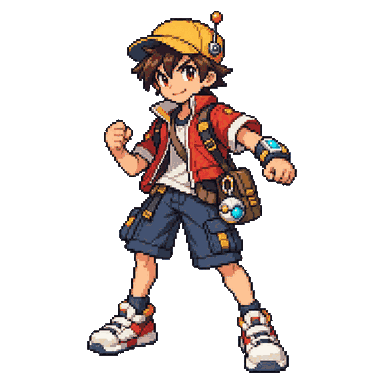
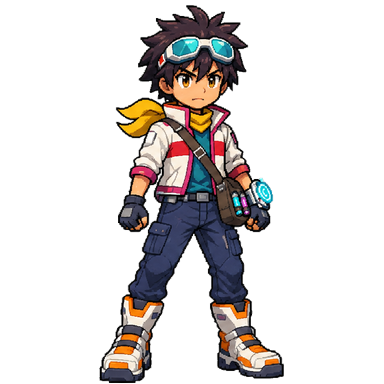
New Rook (player) and Sola art from the owner's character sheets: 4-direction sprites with walk frames, full-body sprite and portrait; tools/import_character_sheet.py for future sheets

Changed region(s): [[0.2188, 0.0, 0.7812, 1.0]]

diff --git a/src/sections.js b/src/sections.js
@@ -119,7 +119,7 @@ function drawSec(){const s=SWORLD[G.sec.id],p=SM?SM.t/SM.n:0,jp=SJ?SJ.t/SEC_JUMP
  txt('◆'+G.shards,128,134,'#fff')}
 // 16x24 figure standing on its tile (feet on the tile's bottom edge)
 function secDrawChar(art,f,x,y,step,me){ctx.fillStyle='rgba(20,10,20,0.35)';ctx.beginPath();ctx.ellipse(x+8,y+15,6,2,0,0,6.283);ctx.fill();
- const k=art+'_'+f,b=step?1:0;if(!dchar(k,Math.round(x-4),Math.round(y-9-b),24,24)&&!dchar(art,Math.round(x-4),Math.round(y-9-b),24,24))kid(Math.round(x+2),Math.round(y-2),f==='left',f==='up',step)}
+ const k=art+'_'+f,b=step?1:0,X=Math.round(x-4),Y=Math.round(y-9-b);if(!(me&&step&&dchar(k+'_w'+(1+(stepc&1)),X,Y,24,24))&&!dchar(k,X,Y,24,24)&&!dchar(art,X,Y,24,24))kid(Math.round(x+2),Math.round(y-2),f==='left',f==='up',step)}
 function drawSecDebug(s,cx,cy){ctx.save();for(let y=0;y<s.tiles[1];y++)for(let x=0;x<s.tiles[0];x++){const c=s.rows[y][x],X=x*16-cx,Y=y*16-cy;if(X<-16||Y<-16||X>160||Y>144)continue;
   if(c==='#'){ctx.fillStyle='rgba(255,0,0,0.33)';ctx.fillRect(X,Y,16,16)}else if(c===','){ctx.fillStyle='rgba(0,255,0,0.25)';ctx.fillRect(X,Y,16,16)}
   ctx.strokeStyle='rgba(255,0,255,0.35)';ctx.lineWidth=0.5;ctx.strokeRect(X+0.25,Y+0.25,15.5,15.5)}

diff --git a/tools/import_character_sheet.py b/tools/import_character_sheet.py
@@ -1,0 +1,77 @@
+"""Import a character sheet (ChatGPT layout: big bust top-left, full body top-middle, a 4x4 walk grid top-right with rows
+down / up / left / left-alt, battle poses and face portraits below) on a white background.
+
+Writes, for a character key:
+  art/characters/<key>_{down,up,left,right}.png        64x64 standing frames (right = mirrored left)
+  art/characters/<key>_{down,up,left,right}_w1/_w2.png 64x64 walk frames (used for the player; NPCs use the standing frame)
+  art/characters/<key>.png or <key>_big.png             full-body sprite (128x128 for NPCs, 160x160 for the player)
+  art/portraits/<key>.png or <key>_big.png              384x384 full-body portrait
+
+Usage: python tools/import_character_sheet.py <sheet.png> <key> [--player] [--holes]
+"""
+import sys
+import numpy as np
+from PIL import Image, ImageOps
+from scipy import ndimage
+
+COLS = [(952, 1088), (1093, 1228), (1233, 1368), (1368, 1505)]
+ROWS = [(22, 203), (203, 383), (384, 575), (575, 758)]
+FULL = (560, 10, 925, 732)
+
+
+HOLES = False
+
+
+def cut(src, box):
+    """Crop, make the outside white transparent, and keep only the biggest figure (drops bits of neighbours)."""
+    a = np.asarray(src.crop(box)).astype(int)
+    white = (a.min(axis=2) > 226) & ((a.max(axis=2) - a.min(axis=2)) < 22)
+    lab, _ = ndimage.label(white)
+    edge = set(lab[0, :]) | set(lab[-1, :]) | set(lab[:, 0]) | set(lab[:, -1])
+    edge.discard(0)
+    fg = ~np.isin(lab, list(edge))
+    if HOLES:   # pure-white gaps enclosed by hair strands (don't use on characters with white clothing)
+        pure = (a.min(axis=2) > 244) & ((a.max(axis=2) - a.min(axis=2)) < 12)
+        pl, pn = ndimage.label(pure)
+        if pn:
+            ps = ndimage.sum(pure, pl, range(1, pn + 1))
+            fg &= ~np.isin(pl, [i + 1 for i, v in enumerate(ps) if v >= 12])
+    fl, fn = ndimage.label(fg)
+    if fn:
+        sizes = ndimage.sum(fg, fl, range(1, fn + 1))
+        big = max(sizes)
+        fg = np.isin(fl, [i + 1 for i, s in enumerate(sizes) if s > big * 0.15])   # the figure (plus any large detached parts)
+    im = Image.fromarray(np.dstack([a.astype('uint8'), np.where(fg, 255, 0).astype('uint8')]), 'RGBA')
+    return im.crop(im.getbbox())
+
+
+def fit(im, size, h):
+    s = h / im.height
+    im = im.resize((max(1, round(im.width * s)), h), Image.LANCZOS)
+    c = Image.new('RGBA', (size, size), (0, 0, 0, 0))
+    c.paste(im, ((size - im.width) // 2, size - im.height - 1), im)
+    return c
+
+
+def main(path, key, player):
+    src = Image.open(path).convert('RGB')
+    C = {(r, c): cut(src, (x0, y0, x1, y1)) for r, (y0, y1) in enumerate(ROWS) for c, (x0, x1) in enumerate(COLS)}
+    frames = {'down': [C[(0, 0)], C[(0, 1)], C[(0, 3)]], 'up': [C[(1, 0)], C[(1, 1)], C[(1, 3)]], 'left': [C[(2, 1)], C[(2, 0)], C[(2, 2)]]}
+    frames['right'] = [ImageOps.mirror(f) for f in frames['left']]
+    for d, (st, w1, w2) in frames.items():
+        fit(st, 64, 60).save(f'art/characters/{key}_{d}.png', optimize=True)
+        fit(w1, 64, 60).save(f'art/characters/{key}_{d}_w1.png', optimize=True)
+        fit(w2, 64, 60).save(f'art/characters/{key}_{d}_w2.png', optimize=True)
+    full = cut(src, FULL)
+    if player:
+        fit(full, 160, 156).save(f'art/characters/{key}_big.png', optimize=True)
+        fit(full, 384, 378).save(f'art/portraits/{key}_big.png', optimize=True)
+    else:
+        fit(full, 128, 124).save(f'art/characters/{key}.png', optimize=True)
+        fit(full, 384, 378).save(f'art/portraits/{key}.png', optimize=True)
+    print('imported', key)
+
+
+if __name__ == '__main__':
+    HOLES = '--holes' in sys.argv
+    main(sys.argv[1], sys.argv[2], '--player' in sys.argv)
